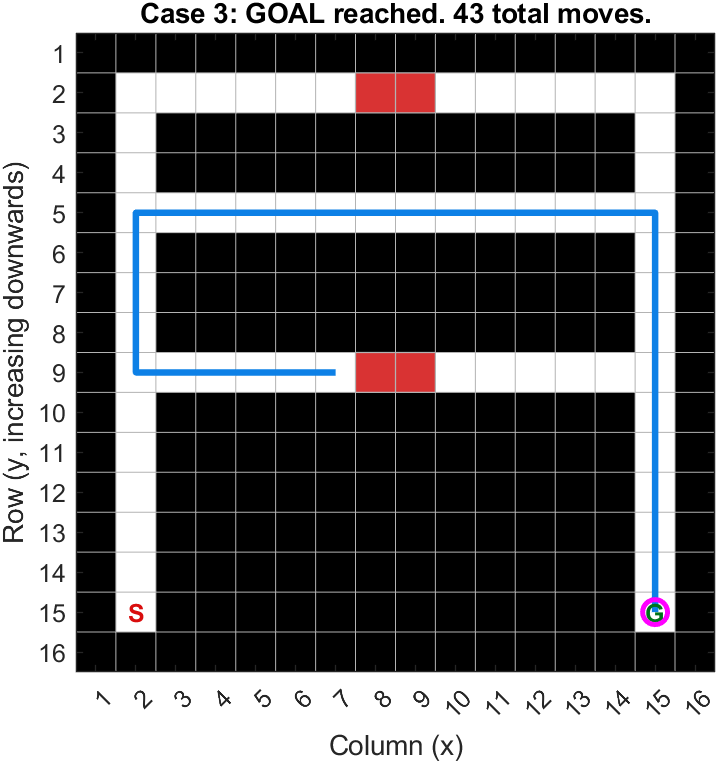
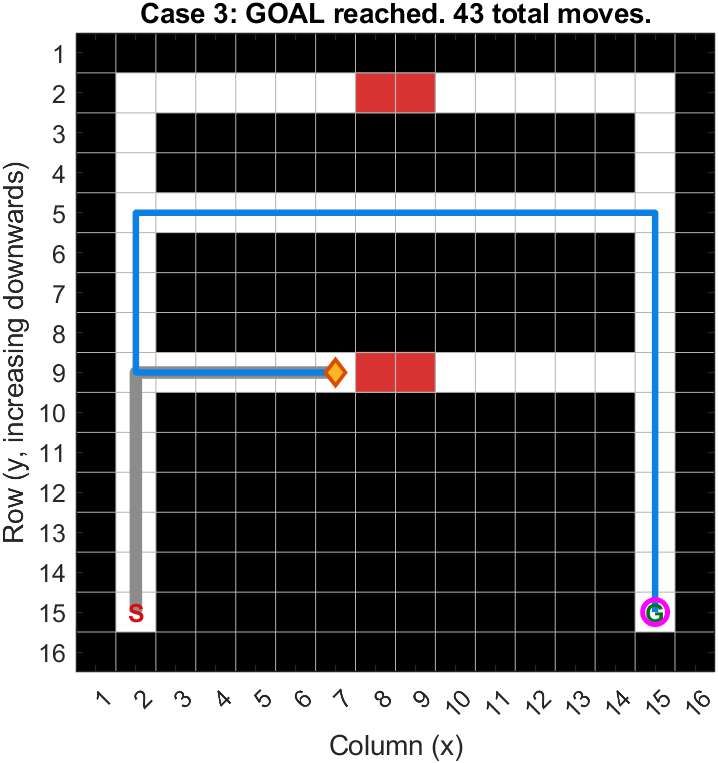
Clarify replanning figures and add animation

Changed region(s): [[0.1532, 0.4522, 0.4903, 0.8139]]

diff --git a/Assignment3_AStar.m b/Assignment3_AStar.m
@@ -48,7 +48,6 @@ for scenario = 1:3
     cpsDrawGrid(gca,updated,startRC,goalRC,[],[],added);
     title(sprintf('Case %d, %d new blocked cells',scenario,nnz(added)));
 end
-cpsMaybeExport(gcf,'scenario-maps.png');
 
 %% PART 4 - Case 1: interrupt journey and replan if necessary
 cpsRunPrescribedScenario(1,animateScenarios,[9,7]);
@@ -77,7 +76,6 @@ fprintf('Unreachable goal: A* correctly returned no route (%d cells expanded).\n
 figure('Name','Assignment 3 A* - Unreachable goal test');
 cpsDrawGrid(gca,noRouteMap,s,g,[],[],noRouteMap==1 & baseMap==0);
 title('Extra test: no route exists');
-cpsMaybeExport(gcf,'unreachable-goal.png');
 
 %% LOCAL FUNCTIONS - these are called by the sections above
 
@@ -236,12 +234,15 @@ function [ok, reason] = cpsValidateRoute(map,path,startRC,goalRC)
     ok = true; reason = 'Route valid.';
 end
 
-function cpsDrawGrid(ax,map,startRC,goalRC,path,currentRC,newBlocked,invalidRoute)
+function cpsDrawGrid(ax,map,startRC,goalRC,path,currentRC,newBlocked, ...
+        invalidRoute,travelledRoute,replanRC)
     % Map coordinates in [row,col]; plot coordinates in (column,row).
     if nargin<5, path=[]; end
     if nargin<6, currentRC=[]; end
     if nargin<7, newBlocked=false(size(map)); end
     if nargin<8, invalidRoute=[]; end
+    if nargin<9, travelledRoute=[]; end
+    if nargin<10, replanRC=[]; end
 
     cla(ax);
     imagesc(ax,map);
@@ -269,6 +270,11 @@ function cpsDrawGrid(ax,map,startRC,goalRC,path,currentRC,newBlocked,invalidRout
         rectangle(ax,'Position',[newC(j)-0.5,newR(j)-0.5,1,1], ...
             'FaceColor',[0.85 0.2 0.2],'EdgeColor',[0.7 0.7 0.7]);
     end
+    if ~isempty(travelledRoute)
+        % Grey underlay shows the route already travelled before replanning.
+        plot(ax,travelledRoute(:,2),travelledRoute(:,1),'-', ...
+            'Color',[0.55 0.55 0.55],'LineWidth',5);
+    end
     if ~isempty(invalidRoute)
         % Dashed red means INVALIDATED route; never followed after update.
         plot(ax,invalidRoute(:,2),invalidRoute(:,1),'--', ...
@@ -287,6 +293,11 @@ function cpsDrawGrid(ax,map,startRC,goalRC,path,currentRC,newBlocked,invalidRout
     if ~isempty(currentRC)
         plot(ax,currentRC(2),currentRC(1),'mo', ...
             'MarkerFaceColor','none','LineWidth',2,'MarkerSize',10);
+    end
+    if ~isempty(replanRC)
+        plot(ax,replanRC(2),replanRC(1),'d', ...
+            'MarkerEdgeColor',[0.85 0.3 0], ...
+            'MarkerFaceColor',[1 0.7 0.15],'LineWidth',1.5,'MarkerSize',8);
     end
     xlabel(ax,'Column (x)'); ylabel(ax,'Row (y, increasing downwards)');
     hold(ax,'off');
@@ -309,21 +320,31 @@ function cpsRunPrescribedScenario(scenario,animate,stopRC)
     fig = figure('Name',sprintf('A* Case %d, stop [%d,%d]', ...
         scenario,stopRC(1),stopRC(2)));
     ax = axes('Parent',fig);
+    writeGif = strcmp(getenv('CPS_EXPORT_GIF'),'1') && ...
+        scenario==2 && isequal(stopRC,[9,7]);
+    gifFile = '';
+    if writeGif
+        gifFile = cpsPrepareGif('case-2-full-journey.gif');
+    end
     cpsDrawGrid(ax,baseMap,startRC,goalRC,originalRoute,startRC);
     title(ax,sprintf('Case %d: initial A* path (%d moves)', ...
         scenario,size(originalRoute,1)-1));
     drawnow;
+    if writeGif, cpsAppendGif(fig,gifFile,0.35,true); end
 
     % Move along the initial route until the intermediate free cell.
     for k = 2:stopIdx
-        if animate
+        if animate || writeGif
             cpsDrawGrid(ax,baseMap,startRC,goalRC,originalRoute,originalRoute(k,:));
             title(ax,sprintf('Case %d: initial progress (%d/%d)', ...
                 scenario,k-1,stopIdx-1));
-            drawnow; pause(0.08);
+            drawnow;
+            if writeGif, cpsAppendGif(fig,gifFile,0.10,false); end
+            if animate, pause(0.08); end
         end
     end
     currentRC = originalRoute(stopIdx,:);
+    travelledRoute = originalRoute(1:stopIdx,:);
 
     % Introduce only the actual prescribed obstacle AFTER movement.
     updatedMap = cpsApplyPrescribedObstacle(baseMap,scenario);
@@ -359,14 +380,16 @@ function cpsRunPrescribedScenario(scenario,animate,stopRC)
     fprintf('  %s\n',outcome);
 
     if remainingValid
-        cpsDrawGrid(ax,updatedMap,startRC,goalRC,newRoute,currentRC,newBlocked);
+        cpsDrawGrid(ax,updatedMap,startRC,goalRC,newRoute,currentRC, ...
+            newBlocked,[],travelledRoute,currentRC);
     else
         % Red dashed means the discarded route, NOT a usable path.
         cpsDrawGrid(ax,updatedMap,startRC,goalRC,[],currentRC, ...
-            newBlocked,remaining);
+            newBlocked,remaining,travelledRoute,currentRC);
     end
     title(ax,sprintf('Case %d: %s',scenario,outcome));
     drawnow;
+    if writeGif, cpsAppendGif(fig,gifFile,0.8,false); end
     if animate, pause(0.5); end
 
     if isempty(newRoute)
@@ -380,29 +403,58 @@ function cpsRunPrescribedScenario(scenario,animate,stopRC)
     fprintf('  Remaining route: %d moves, %d A* cells expanded.\n', ...
         movesAfter,expandedAfter);
     fprintf('  Total travel: %d moves.\n',movesBefore+movesAfter);
-    cpsDrawGrid(ax,updatedMap,startRC,goalRC,newRoute,currentRC,newBlocked);
+    cpsDrawGrid(ax,updatedMap,startRC,goalRC,newRoute,currentRC, ...
+        newBlocked,[],travelledRoute,currentRC);
     title(ax,sprintf('Case %d: valid continuation (%d moves remaining)', ...
         scenario,movesAfter));
     drawnow;
+    if writeGif, cpsAppendGif(fig,gifFile,0.8,false); end
 
     for k = 2:size(newRoute,1)
         nextRC = newRoute(k,:);
         assert(updatedMap(nextRC(1),nextRC(2))==0, ...
             'Agent tried to move through an obstacle.');
-        if animate
-            cpsDrawGrid(ax,updatedMap,startRC,goalRC,newRoute,nextRC,newBlocked);
+        if animate || writeGif
+            cpsDrawGrid(ax,updatedMap,startRC,goalRC,newRoute,nextRC, ...
+                newBlocked,[],travelledRoute,currentRC);
             title(ax,sprintf('Case %d: continuing (%d/%d)', ...
                 scenario,k-1,movesAfter));
-            drawnow; pause(0.08);
+            drawnow;
+            if writeGif, cpsAppendGif(fig,gifFile,0.10,false); end
+            if animate, pause(0.08); end
         end
     end
-    cpsDrawGrid(ax,updatedMap,startRC,goalRC,newRoute,goalRC,newBlocked);
+    cpsDrawGrid(ax,updatedMap,startRC,goalRC,newRoute,goalRC, ...
+        newBlocked,[],travelledRoute,currentRC);
     title(ax,sprintf('Case %d: GOAL reached. %d total moves.', ...
         scenario,movesBefore+movesAfter));
+    if writeGif, cpsAppendGif(fig,gifFile,1.2,false); end
     if isequal(stopRC,[9,7])
         cpsMaybeExport(fig,sprintf('case-%d-result.png',scenario));
+    end
+end
+
+function gifFile = cpsPrepareGif(fileName)
+    assetsDir = fullfile(fileparts(mfilename('fullpath')),'assets');
+    if ~isfolder(assetsDir)
+        mkdir(assetsDir);
+    end
+    gifFile = fullfile(assetsDir,fileName);
+    if isfile(gifFile)
+        delete(gifFile);
+    end
+end
+
+function cpsAppendGif(fig,gifFile,delayTime,firstFrame)
+    drawnow;
+    frame = getframe(fig);
+    [indexedImage,colourMap] = rgb2ind(frame2im(frame),256);
+    if firstFrame
+        imwrite(indexedImage,colourMap,gifFile,'gif', ...
+            'LoopCount',inf,'DelayTime',delayTime);
     else
-        cpsMaybeExport(fig,'route-retention-test.png');
+        imwrite(indexedImage,colourMap,gifFile,'gif', ...
+            'WriteMode','append','DelayTime',delayTime);
     end
 end
 

diff --git a/README.md b/README.md
@@ -16,7 +16,7 @@ We retained the four-connected Von Neumann neighbourhood. The maze has narrow co
 
 The grid uses `0` for free cells and `1` for obstacles. Coordinates are stored as `[row,column]`; row 1 appears at the top. A* selects the open cell with the lowest cumulative cost plus Manhattan distance and stores parent cells to reconstruct the route. Validation checks endpoints, integer grid bounds, blocked cells and unit four-connected steps.
 
-Each obstacle case reloads the original map. The agent follows its initial route to `[9,7]`, the obstacle is introduced, and only the remaining route is checked. Invalid routes are discarded and replanned from the current cell. The programme also reports an empty result cleanly when no route exists.
+Each obstacle case reloads the original map. The agent follows its initial route to `[9,7]`, the obstacle is introduced, and only the remaining route is checked. Invalid routes are discarded and replanned from the current cell.
 
 ![Original map and calculated route](assets/original-route.png)
 
@@ -35,7 +35,11 @@ Executed in MATLAB R2024b with the supplied A* implementation:
 |---|---|---|
 | ![Case 1 result](assets/case-1-result.png) | ![Case 2 result](assets/case-2-result.png) | ![Case 3 result](assets/case-3-result.png) |
 
-The extra retention test introduces Case 1 after the agent has passed the blocked cells and correctly keeps the valid route. The unreachable-goal test blocks all crossings and returns no route without attempting movement.
+In these final frames, grey shows the route already travelled, the orange diamond marks the replanning cell and blue shows the valid continuation.
+
+![Animated Case 2 journey](assets/case-2-full-journey.gif)
+
+The retention test adds Case 1 behind the agent and correctly keeps the valid route. The unreachable-goal test blocks all crossings and returns no route without attempting movement.
 
 ## Limitations and Assignment 4
 
@@ -43,4 +47,4 @@ This simulation assumes a known discrete map and ideal cell-to-cell movement. It
 
 ## Running the code
 
-Open `Assignment3_AStar.m` in MATLAB R2024b and select **Run** to reproduce the original map, all three independent obstacle cases and both extra tests. No additional toolboxes or files are required. Parts 7 and 8 can also be run as sections after their stated prerequisites. Set `CPS_NO_ANIMATION=1` for headless verification and `CPS_EXPORT_ASSETS=1` to regenerate the figures in `assets/`.
+Open `Assignment3_AStar.m` in MATLAB R2024b and select **Run** to reproduce the original map, all three independent obstacle cases and both extra tests. No additional toolboxes or files are required. Parts 7 and 8 can also be run as sections after their stated prerequisites. Set `CPS_NO_ANIMATION=1` for headless verification, `CPS_EXPORT_ASSETS=1` to regenerate the figures and `CPS_EXPORT_GIF=1` to rebuild the animation.
